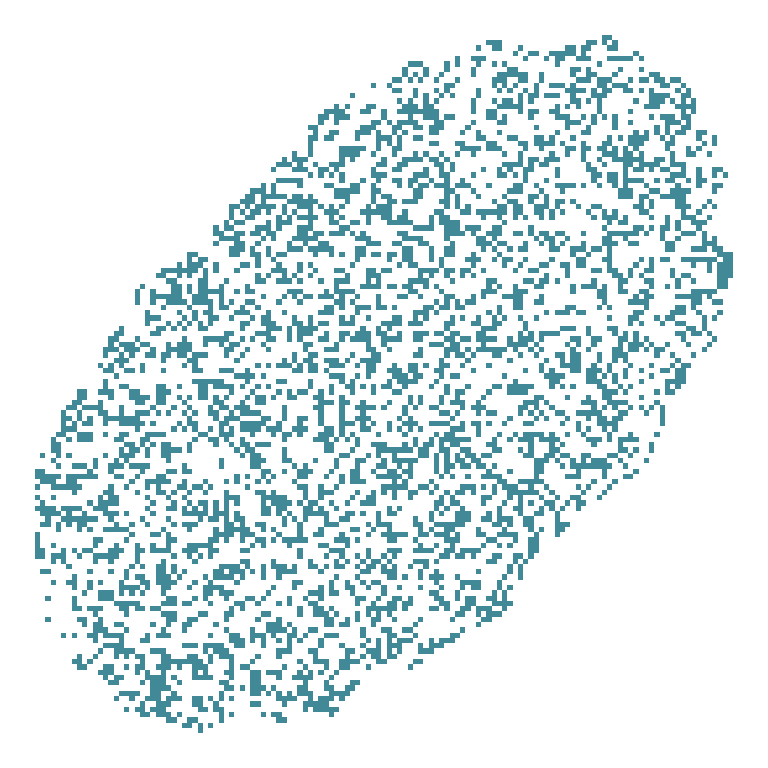
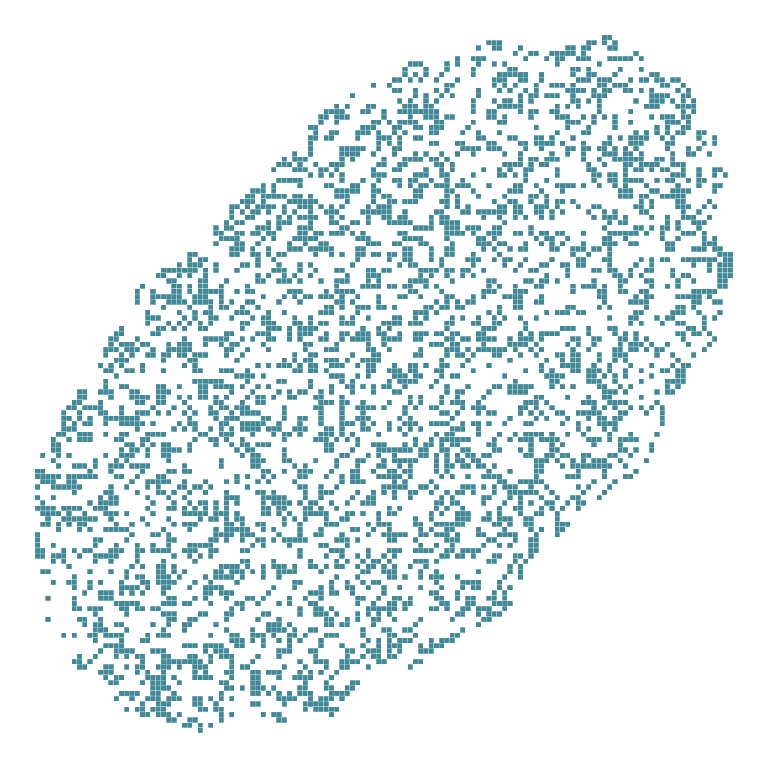
Update AoC day 24 grid pic

diff --git a/2020/12/06/advent-2020/index.html b/2020/12/06/advent-2020/index.html
@@ -46,7 +46,7 @@ Here are my solutions so far.">
 
 <meta itemprop="datePublished" content="2020-12-06T17:00:00&#43;00:00" />
 <meta itemprop="dateModified" content="2020-12-06T17:00:00&#43;00:00" />
-<meta itemprop="wordCount" content="12042">
+<meta itemprop="wordCount" content="12048">
 
   <meta itemprop="image" content="https://selbydavid.com/img/2020/adventofcode.jpg">
 
@@ -2945,7 +2945,8 @@ full_grid %&gt;%
 
 <p>It’s not very efficient, but it works!</p>
 
-<p>Here is what the floor pattern looks like after 100 days.</p>
+<p>Here is what the grid looks like after 100 days (except the actual pattern would
+be hexagonal).</p>
 
 <p><img src="https://selbydavid.com/img/2020/aoc-day24-floor.png" alt="" /></p>
 
